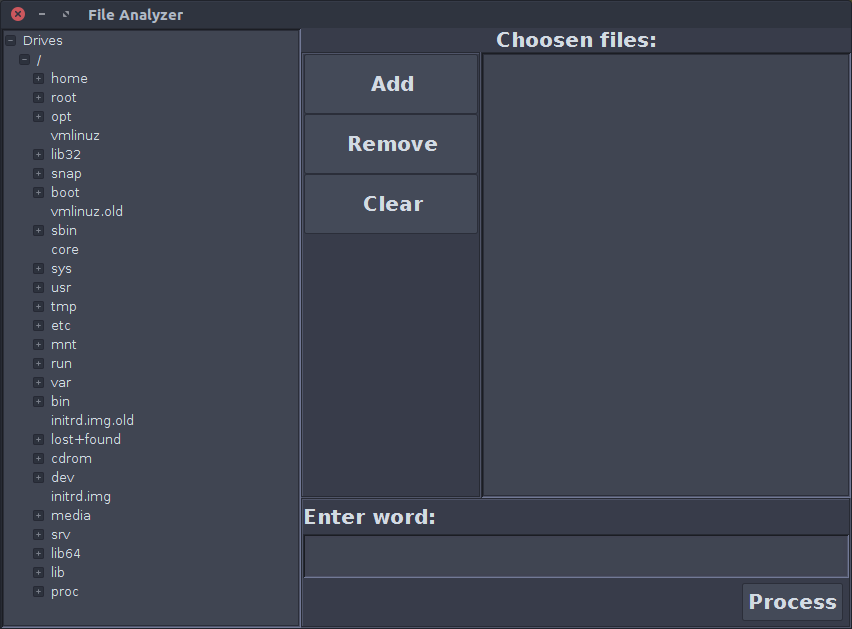
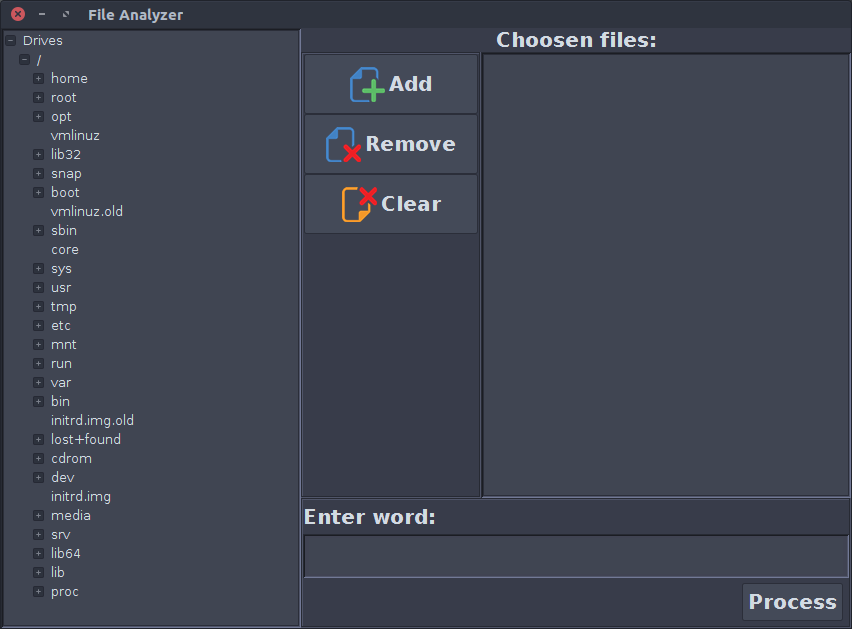
paths changes for working on linux

Changed region(s): [[0.3662, 0.1812, 0.5493, 0.3625], [0.3967, 0.0906, 0.5188, 0.151]]

diff --git a/src/jcomponents/JWindow.java b/src/jcomponents/JWindow.java
@@ -161,7 +161,7 @@ public class JWindow extends JFrame {
 				getContentPane().setLayout(new BorderLayout());
 
 				JLabel label = new JLabel("File is loading...",
-						new ImageIcon("resourses\\loading3.gif"), SwingConstants.CENTER);
+						new ImageIcon("resourses/loading3.gif"), SwingConstants.CENTER);
 				label.setFont(new Font(Font.SANS_SERIF, Font.PLAIN, 35));
 				add(label, BorderLayout.CENTER);
 				setResizable(false);
@@ -247,7 +247,7 @@ public class JWindow extends JFrame {
 
 	@SuppressWarnings("serial")
 	private void initiateButtonPanel() {
-		addButton = new JButton("Add", new ImageIcon("resourses\\addIcon.png"));
+		addButton = new JButton("Add", new ImageIcon("resourses/addIcon.png"));
 		setJButtonForButtonPanel(addButton);
 		addButton.addActionListener(new ActionListener() {
 
@@ -272,7 +272,7 @@ public class JWindow extends JFrame {
 
 			}
 		});
-		removeButton = new JButton("Remove", new ImageIcon("resourses\\removeIcon.png"));
+		removeButton = new JButton("Remove", new ImageIcon("resourses/removeIcon.png"));
 		setJButtonForButtonPanel(removeButton);
 		removeButton.addActionListener(new ActionListener() {
 
@@ -282,7 +282,7 @@ public class JWindow extends JFrame {
 			}
 		});
 
-		removeAllButton = new JButton("Clear", new ImageIcon("resourses\\clearAllIcon.png"));
+		removeAllButton = new JButton("Clear", new ImageIcon("resourses/clearAllIcon.png"));
 		setJButtonForButtonPanel(removeAllButton);
 		removeAllButton.addActionListener(new ActionListener() {
 

diff --git a/README.md b/README.md
@@ -8,8 +8,7 @@ The main goal of project is to create a primitive search system capable of
 parsing the collection of files and processing requests over this collection.
 
 This system had to have UI representing filesystem as tree for user to be
-able to choose files to be preprocessed. The preprocessing should run in new
-thread.
+able to choose files to be preprocessed.
 
 The search request is word to be found in preprocessed collection of files.
 
@@ -31,7 +30,7 @@ user choice:
 
 You can type your request in the field at the bottom of window. The following
 pop-up with results will appear. Files from collection are sorted in order or
-frequency of requested word appearance in them. Note that tokenization and
+frequency of requested word appearance in them. Note that analysis and
 search algorithms is very primitive:
 
 ![Pop-up window with results](readme_resources/screenshot_4.png)
